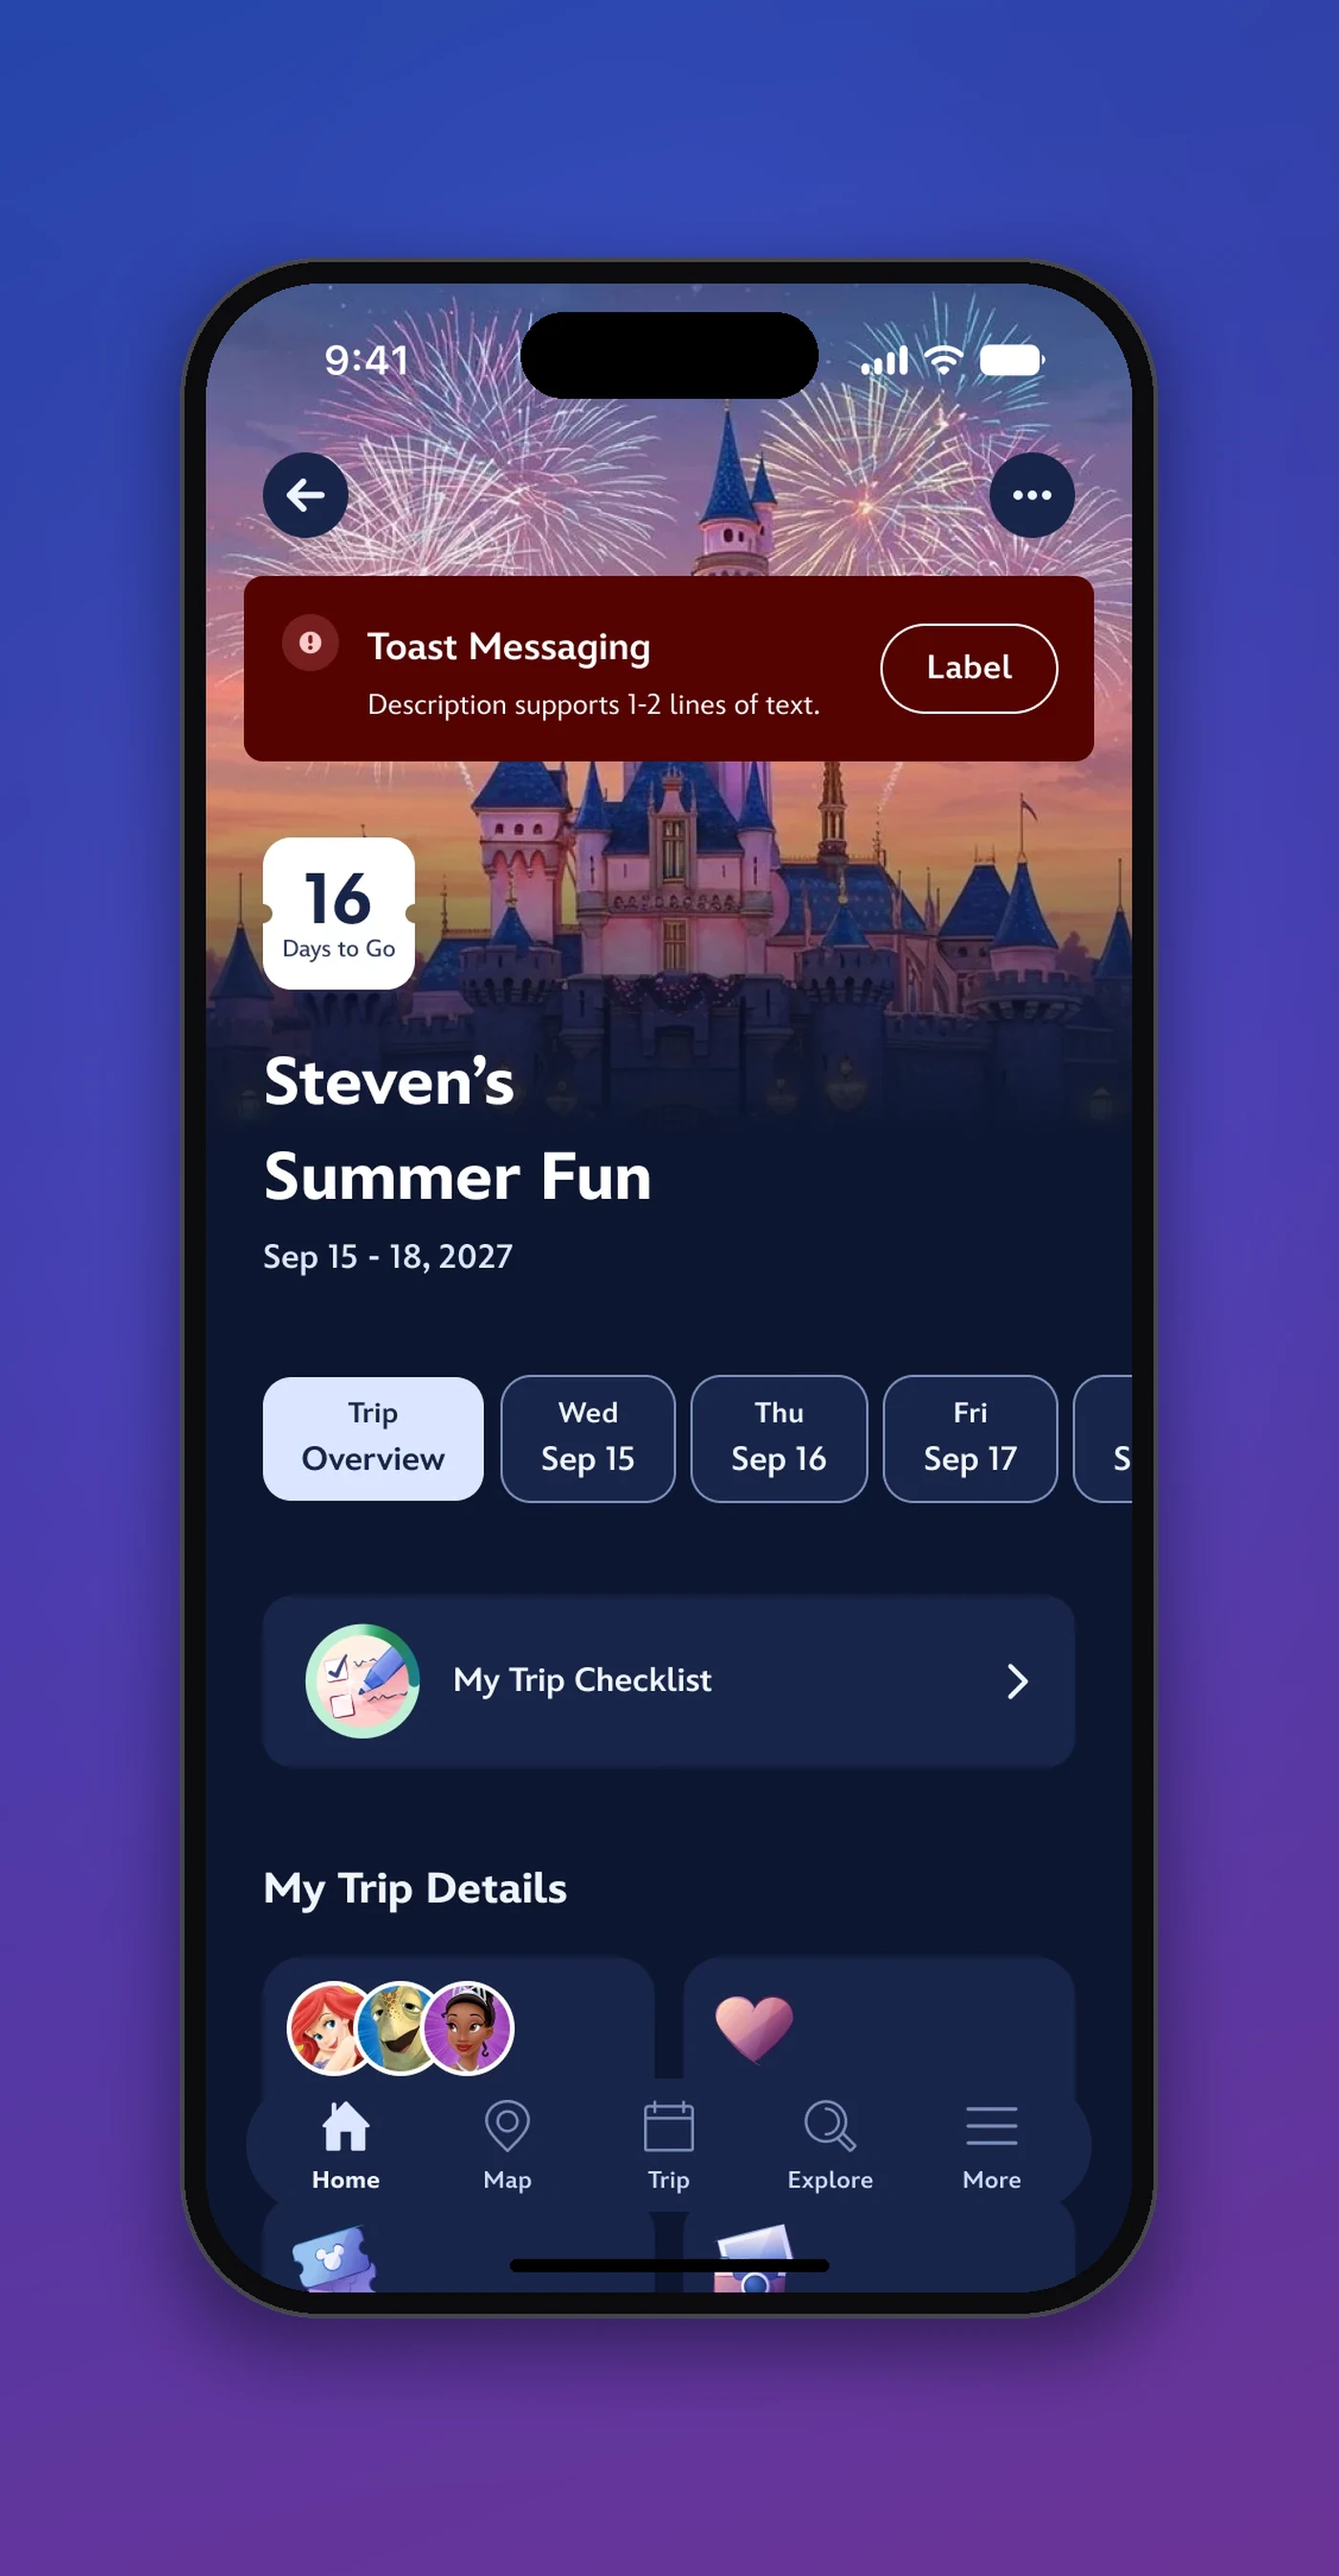
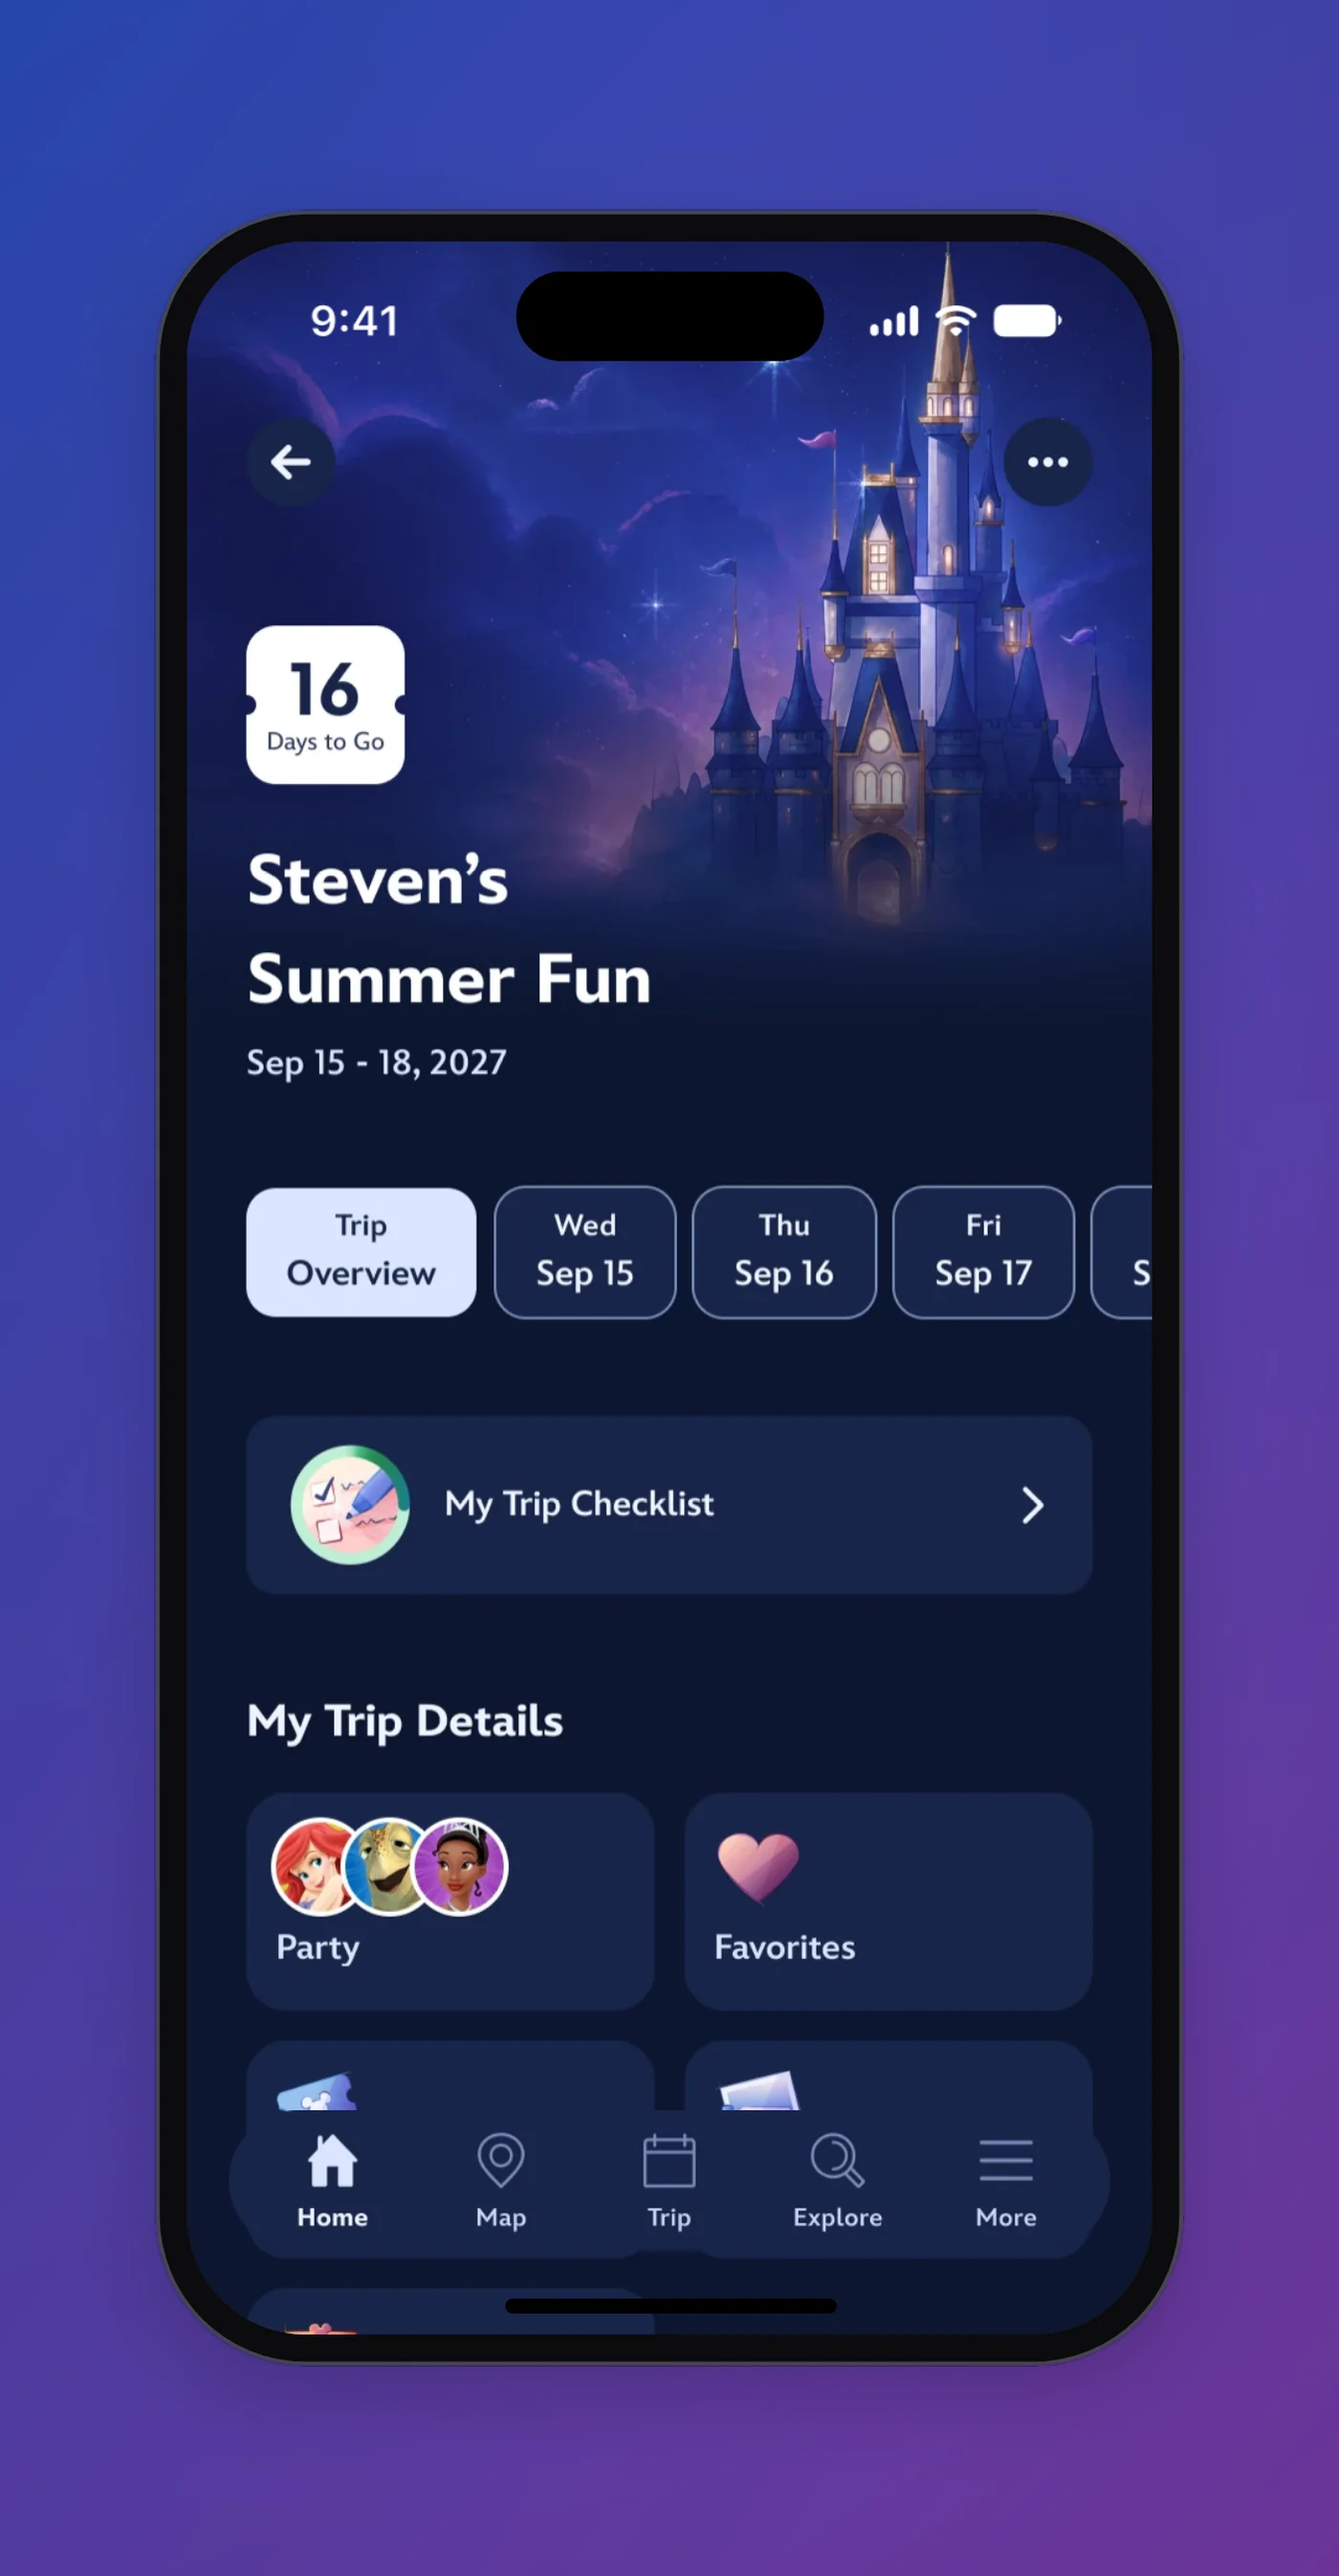
Disney phones: new light/dark screens, dark status text on light phone, refreshed stills
Claude-Session: https://claude.ai/code/session_01QtBBYLn9H1tRY41einoAmH

diff --git a/work/disney-dark-mode.html b/work/disney-dark-mode.html
@@ -27,7 +27,7 @@
 </header>
 <main class="cs">
   <section class="cs-row cs-intro">
-    <div class="cs-media"><button class="shot phones-shot" type="button" aria-label="View Light and dark, side by side larger"><div class="phones" role="img" aria-label="Trip home screen in light and dark mode, scrolling side by side"><figure class="phone"><figcaption>Light</figcaption><div class="screen-wrap"><div class="screen"><img class="scroll" src="../images/disney/screen-light.webp" alt=""><img class="tabs tl" src="../images/disney/tabs-light.webp" alt=""><span class="status-bg"></span><img class="status st-top" src="../images/disney/status-light-text.webp" alt=""><img class="status st-scrolled" src="../images/disney/status-dark-text.webp" alt=""><span class="island"></span><span class="home-ind"></span></div></div></figure><figure class="phone"><figcaption>Dark</figcaption><div class="screen-wrap"><div class="screen"><img class="scroll" src="../images/disney/screen-dark.webp" alt=""><img class="tabs td" src="../images/disney/tabs-dark.webp" alt=""><span class="status-bg"></span><img class="status st-top" src="../images/disney/status-light-text.webp" alt=""><img class="status st-scrolled" src="../images/disney/status-light-text.webp" alt=""><span class="island"></span><span class="home-ind"></span></div></div></figure></div><span class="note" hidden><strong>Light and dark, side by side</strong><p>The trip home screen in both themes, scrolling together with the tab bar pinned, so you can compare how surfaces, cards, type and brand colors carry over from light to dark.</p></span></button></div>
+    <div class="cs-media"><button class="shot phones-shot" type="button" aria-label="View Light and dark, side by side larger"><div class="phones" role="img" aria-label="Trip home screen in light and dark mode, scrolling side by side"><figure class="phone"><figcaption>Light</figcaption><div class="screen-wrap"><div class="screen"><img class="scroll" src="../images/disney/screen-light.webp" alt=""><img class="tabs tl" src="../images/disney/tabs-light.webp" alt=""><span class="status-bg"></span><img class="status st-top" src="../images/disney/status-dark-text.webp" alt=""><img class="status st-scrolled" src="../images/disney/status-dark-text.webp" alt=""><span class="island"></span><span class="home-ind"></span></div></div></figure><figure class="phone"><figcaption>Dark</figcaption><div class="screen-wrap"><div class="screen"><img class="scroll" src="../images/disney/screen-dark.webp" alt=""><img class="tabs td" src="../images/disney/tabs-dark.webp" alt=""><span class="status-bg"></span><img class="status st-top" src="../images/disney/status-light-text.webp" alt=""><img class="status st-scrolled" src="../images/disney/status-light-text.webp" alt=""><span class="island"></span><span class="home-ind"></span></div></div></figure></div><span class="note" hidden><strong>Light and dark, side by side</strong><p>The trip home screen in both themes, scrolling together with the tab bar pinned, so you can compare how surfaces, cards, type and brand colors carry over from light to dark.</p></span></button></div>
     <div class="cs-text">
       <h1>Disney Parks – Dark Mode</h1>
       <div class="lead"><p>Exploring a dark theme for Disney&#x27;s parks app, built into the Vista design system so every screen and component can switch with its tokens.</p></div>

diff --git a/build.py b/build.py
@@ -512,13 +512,13 @@ def build_project(p):
             ph = p.get("phones")
             if ph and src == ph["src"]:
                 # light and dark screens in phone frames, scrolling together, tab bars pinned (pure HTML/CSS, transparent)
-                def phone(name, scr, tabs, cls, status):
+                def phone(name, scr, tabs, cls, status, top):
                     return (f'<figure class="phone"><figcaption>{name}</figcaption><div class="screen-wrap"><div class="screen">'
                             f'<img class="scroll" src="{pre}{scr}" alt="">'
-                            f'<img class="tabs {cls}" src="{pre}{tabs}" alt=""><span class="status-bg"></span><img class="status st-top" src="{pre}{ph["status_dark"]}" alt=""><img class="status st-scrolled" src="{pre}{status}" alt=""><span class="island"></span><span class="home-ind"></span>'
+                            f'<img class="tabs {cls}" src="{pre}{tabs}" alt=""><span class="status-bg"></span><img class="status st-top" src="{pre}{top}" alt=""><img class="status st-scrolled" src="{pre}{status}" alt=""><span class="island"></span><span class="home-ind"></span>'
                             f'</div></div></figure>')
                 inner = (f'<div class="phones" role="img" aria-label="Trip home screen in light and dark mode, scrolling side by side">'
-                         f'{phone("Light", ph["light"], ph["tabs_light"], "tl", ph["status_light"])}{phone("Dark", ph["dark"], ph["tabs_dark"], "td", ph["status_dark"])}</div>')
+                         f'{phone("Light", ph["light"], ph["tabs_light"], "tl", ph["status_light"], ph["status_light"])}{phone("Dark", ph["dark"], ph["tabs_dark"], "td", ph["status_dark"], ph["status_dark"])}</div>')
                 return (f'<button class="shot phones-shot" type="button" aria-label="View {label} larger">{inner}{note_html(src)}</button>')
             return (f'<button class="shot{" long" if long else ""}" type="button" aria-label="View {label} larger">'
                     f'{media(src, alt, vids, pre)}{note_html(src)}</button>')
